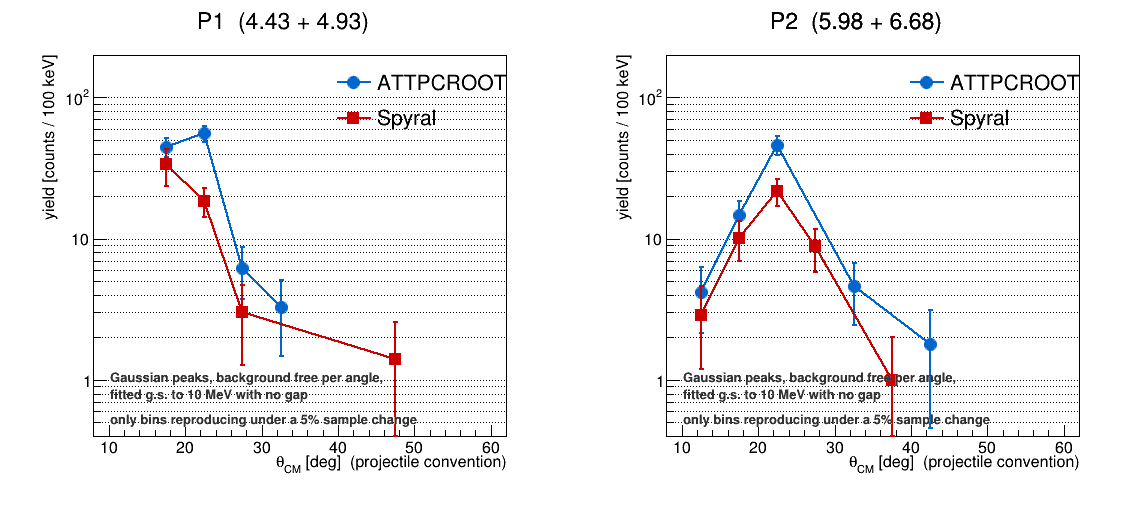
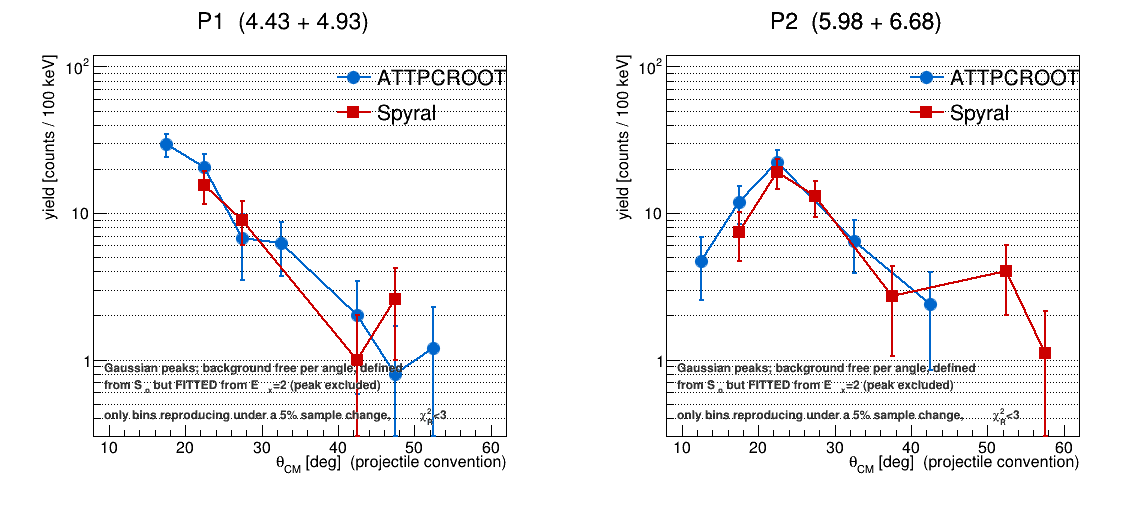
C15p/levels_15C: exclude the elastic peak from the FIT; angular distributions
The background is still defined from Sn -- no gap in the model -- but the
elastic peak is now excluded from the fit range.  A pure Gaussian
describes that peak badly (peak chi2 14-38 forward) and with thousands of
counts in it that misfit was dragging the background.

ATTPCROOT 20-25 was the worst surviving bin at chi2R 4.31, and the
residuals showed one bin AT the fit boundary carrying 7.23^2 = 52 of the
chi2 over ~21 dof, everything above 3.9 within +-2.4.  It had chosen
a=2.00 k=2.03, so the background peaked at Ex ~ 2.2 and died by 3.5 --
while the data there rise monotonically.  Spyral, whose narrower Gaussian
fits its peak better, was not dragged.

  fit from     ATTPCROOT                        Spyral
   Ex -1.5   a=2.00 k=2.03 chi2R 4.31 P1 55.5  a=0.50 k=0.44 0.85 P1 18.4
   Ex +2.0   a=1.50 k=0.64 chi2R 1.50 P1 20.6  a=1.50 k=0.64 0.84 P1 15.4
   Ex +3.0   a=0.50 k=8.98 chi2R 5.68 P1 52.4  a=3.00 k=0.84 1.04 P1 17.3

The peak region was inflating ATTPCROOT's yields by a FACTOR 2.7.  At
Ex >= 2.0 the two codes return identical shape parameters.  Adopt 2.0.

Result: every chi2R now 0.79-2.33 (Spyral 50-55 went 5137 -> 2.77), and
the codes agree on a and k at 15-20 and 20-25.

  theta_CM  ATTPCROOT a/k  Spyral a/k   P1 A/S       P2 A/S
   15-20     1.50 0.97     1.50 0.98   29.4/17.8   11.9/ 7.4
   20-25     1.50 0.64     1.50 0.64   20.6/15.4   22.2/19.0
   25-30     1.50 0.40     2.00 0.34    6.7/ 9.0    0.4/13.0
[…]

diff --git a/macro/Unpack_HDF5/C15p/levels_15C/scripts/r2025_scan.C b/macro/Unpack_HDF5/C15p/levels_15C/scripts/r2025_scan.C
@@ -1,0 +1,72 @@
+#include "angfinal.C"
+// ATTPCROOT 20-25 is the worst surviving bin (chi2R 4.45) while Spyral's same bin is 0.86.
+// It also carries the P2 peak, so the angular distribution hinges on it.  Where does it fail?
+void r2025s(double FITLO=-1.5);
+void r2025s(double FITLO){
+  setCM(10,5,60);
+  B1::exLo=FITLO;
+  RK::exLo=3.5; RK::exHi=9.0; RK::ONETERM=true; RK::BKG=RK::HALON;
+  RK::TIE12=false; RK::PAIRS=true; RK::DELTA=0.0;
+  for(int i=0;i<RK::NR;i++) RK::USE[i]=(i<6);
+  Cfg b0=CFG[0], b1=CFG[1];
+  for(int ic=0;ic<2;ic++){
+    CFG[0]=b0; CFG[1]=b1; CFG[ic].vzHi=900; if(ic==0) CFG[ic].chi2=5.0;
+    VZLO=300; BB_QUIET=true; binbuild();
+    RK::SEED.clear(); rkRun(CFG[ic],NCM,false);
+    for(int r=0;r<RK::NRAT;r++) RK::FIXRAT[r]=RK::LASTP[1+NCM*RK::nper()+r];
+    int b=2; B1::BIN=b; B1::EB=CFG[ic].eb; RK::ONLYBIN=b;
+    RK::Bin& d=RK::B[b];
+    Pars A=parsOf(CFG[ic]); A.vzLo=300; Win w{14,86,CFG[ic].keLo,CFG[ic].keHi};
+    B1::ACC=new TGraph();
+    for(int i=0;i<=460;i++){ double X=i*0.05;
+      B1::ACC->SetPoint(i,X,accBin(A,CFG[ic].eb,X,d.cmLo,d.cmHi,w)); }
+    const int npar=3+2+4+2; B1::NPAR=npar; B1::NSH=2; B1::FORM=3;
+    double pk=d.h->GetBinContent(d.h->GetMaximumBin());
+    std::vector<double> best(npar,0); double bestL=1e18;
+    const double AG[9]={0.0,0.25,0.5,0.75,1.0,1.25,1.5,2.0,3.0};
+    for(double av:AG){
+      auto* m=ROOT::Math::Factory::CreateMinimizer("Minuit2","Migrad");
+      m->SetMaxFunctionCalls(500000); m->SetTolerance(0.01); m->SetPrintLevel(0); m->SetStrategy(2);
+      ROOT::Math::Functor fn(&B1::fcn,npar); m->SetFunction(fn);
+      m->SetLimitedVariable(0,"Ags",pk,pk*0.01,0,pk*10);
+      m->SetLimitedVariable(1,"A52",0.1*pk,pk*0.001,0,pk*5);
+      m->SetLimitedVariable(2,"B",50,1,0,1e7);
+      m->SetFixedVariable(3,"a",av);
+      m->SetLimitedVariable(4,"k",0.5,0.02,0.0,9.0);
+      for(int g=0;g<4;g++) m->SetLimitedVariable(5+g,Form("A%d",g),20,0.5,0,1e5);
+      m->SetLimitedVariable(npar-2,"mu",d.gsMu,0.005,d.gsMu-0.6,d.gsMu+0.6);
+      m->SetLimitedVariable(npar-1,"sig",0.4,0.005,0.08,1.5);
+      m->Minimize();
+      if(m->MinValue()<bestL){ bestL=m->MinValue(); best.assign(m->X(),m->X()+npar); }
+      delete m; }
+    const double* p=best.data();
+    double s2=0; int nd=0;
+    for(int i=1;i<=d.h->GetNbinsX();i++){ double x=d.h->GetBinCenter(i),n=d.h->GetBinContent(i);
+      if(x<B1::PKHI||x>B1::exHi) continue;
+      double mm=B1::model(x,p); if(mm<1e-9) mm=1e-9; s2+=(n-mm)*(n-mm)/std::max(mm,1.0); nd++; }
+    auto gH=[&](int g){ double mx=0; const double* a2=p+5;
+      for(int r=0;r<RK::NR;r++) if(RK::GRP[r]==g&&d.in[r]){
+        double mu=(RK::EPP6[r]-RK::PPGS6)+d.gsMu, sm=0;
+        for(int q=0;q<RK::NR;q++) if(RK::GRP[q]==g&&d.in[q])
+          sm+=((RK::RIDX[q]>=0)?RK::FIXRAT[RK::RIDX[q]]:1.0)*d.T[q].Eval(mu);
+        mx=std::max(mx,std::max(0.0,a2[g])*sm); } return mx; };
+    printf("\n== %-10s 20-25  fit from Ex %+.1f :  a=%.2f k=%.2f   chi2R=%.2f   P1=%.1f P2=%.1f\n",
+           CFG[ic].nm,B1::exLo,p[3],p[4],s2/std::max(1.0,nd-7.0),gH(0),gH(1));
+    if(false)
+    printf("   %6s %8s %9s %8s   %8s %8s %8s  %s\n","Ex","data","model","pull","bkg","P1","P2","");
+    for(double X=3.5;X<=9.01;X+=0.2){
+      int ib=d.h->FindBin(X); double n=d.h->GetBinContent(ib);
+      double m=B1::model(X,p); if(m<1e-9) m=1e-9;
+      double Xt=X-p[npar-2];
+      double bg=std::max(0.0,p[2])*B1::shp(Xt,p+3)*(B1::ACC?std::max(0.0,B1::ACC->Eval(Xt)):1.0);
+      double a1=0,a2=0; const double* aa=p+5;
+      for(int r=0;r<RK::NR;r++) if(RK::GRP[r]>=0&&d.in[r]){
+        double v=std::max(0.0,aa[RK::GRP[r]])*((RK::RIDX[r]>=0)?RK::FIXRAT[RK::RIDX[r]]:1.0)*d.T[r].Eval(X);
+        if(RK::GRP[r]==0) a1+=v; else if(RK::GRP[r]==1) a2+=v; }
+      double pull=(n-m)/std::sqrt(std::max(m,1.0));
+      char bar[40]; int k2=0; int np=(int)std::min(16.0,std::fabs(pull)*2.5);
+      for(int j=0;j<np;j++) bar[k2++]= pull>0?'+':'-'; bar[k2]=0;
+      printf("   %6.2f %8.0f %9.1f %8.2f   %8.1f %8.1f %8.1f  %s\n",X,n,m,pull,bg,a1,a2,bar); }
+    RK::ONLYBIN=-1; CFG[0]=b0; CFG[1]=b1; }
+  VZLO=0; RK::PAIRS=false; BB_QUIET=true; binbuild();
+}

diff --git a/macro/Unpack_HDF5/C15p/levels_15C/scripts/angplot.C b/macro/Unpack_HDF5/C15p/levels_15C/scripts/angplot.C
@@ -1,36 +1,36 @@
-// angular distributions, final configuration -- only bins that pass the stability test
 TGraphErrors *g00=nullptr,*g01=nullptr,*g10=nullptr,*g11=nullptr;
+// angular distributions -- fit from Ex 2.0 (peak excluded from the FIT, background still
+// defined from Sn), pure Gaussian peaks, background free per angle, stability-filtered.
 void angplot(){ gStyle->SetOptStat(0);
   TCanvas* c=new TCanvas("c","c",1150,540); c->Divide(2,1);
   int col[2]={kAzure+2,kRed+1}, mk[2]={20,21};
   const char* pn[2]={"P1  (4.43 + 4.93)","P2  (5.98 + 6.68)"};
-  { double X[]={17.5,22.5,27.5,32.5}; double Y[]={44.7,55.5,6.2,3.3}; double E[]={6.68581,7.44983,2.48998,1.81659}; int N=4;
-    g00 = N? new TGraphErrors(N,X,Y,nullptr,E) : nullptr; }
-  { double X[]={17.5,22.5,27.5,47.5}; double Y[]={33.5,18.4,3,1.4}; double E[]={9.7766,4.28952,1.73205,1.18322}; int N=4;
-    g01 = N? new TGraphErrors(N,X,Y,nullptr,E) : nullptr; }
-  { double X[]={12.5,17.5,22.5,32.5,42.5}; double Y[]={4.2,14.6,46.1,4.6,1.8}; double E[]={2.04939,3.82099,6.7897,2.14476,1.34164}; int N=5;
-    g10 = N? new TGraphErrors(N,X,Y,nullptr,E) : nullptr; }
-  { double X[]={12.5,17.5,22.5,27.5,37.5}; double Y[]={2.9,10.1,21.6,8.8,1}; double E[]={1.70294,3.17805,4.64758,2.96648,1}; int N=5;
-    g11 = N? new TGraphErrors(N,X,Y,nullptr,E) : nullptr; }
+  { double X[]={17.5,22.5,27.5,32.5,42.5,47.5,52.5},Y[]={29.4,20.6,6.7,6.2,2,0.8,1.2},E[]={5.42218,4.53872,3.19362,2.48998,1.41421,0.894427,1.09545};
+    g00=new TGraphErrors(7,X,Y,nullptr,E); }
+  { double X[]={22.5,27.5,42.5,47.5},Y[]={15.4,9,1,2.6},E[]={3.92428,3,1,1.61245};
+    g01=new TGraphErrors(4,X,Y,nullptr,E); }
+  { double X[]={12.5,17.5,22.5,32.5,42.5},Y[]={4.7,11.9,22.2,6.4,2.4},E[]={2.16795,3.44964,4.71169,2.52982,1.54919};
+    g10=new TGraphErrors(5,X,Y,nullptr,E); }
+  { double X[]={17.5,22.5,27.5,37.5,52.5,57.5},Y[]={7.4,19,13,2.7,4,1.1},E[]={2.72029,4.3589,3.60555,1.64317,2,1.04881};
+    g11=new TGraphErrors(6,X,Y,nullptr,E); }
 
   for(int ip=0;ip<2;ip++){
     c->cd(ip+1); gPad->SetLeftMargin(0.15); gPad->SetBottomMargin(0.14);
     gPad->SetGridy(); gPad->SetLogy();
-    auto* fr=gPad->DrawFrame(8,0.4,62,200);
+    auto* fr=gPad->DrawFrame(8,0.3,62,120);
     fr->SetTitle(Form("%s;#theta_{CM} [deg]  (projectile convention);yield [counts / 100 keV]",pn[ip]));
     TGraphErrors* gg[2]={ip==0?g00:g10, ip==0?g01:g11};
     for(int ic=0;ic<2;ic++){ if(!gg[ic]) continue;
       gg[ic]->SetMarkerStyle(mk[ic]); gg[ic]->SetMarkerSize(1.5);
       gg[ic]->SetMarkerColor(col[ic]); gg[ic]->SetLineColor(col[ic]); gg[ic]->SetLineWidth(2);
       gg[ic]->Draw("PL"); }
-    auto* lg=new TLegend(0.58,0.74,0.92,0.88); lg->SetBorderSize(0); lg->SetFillStyle(0);
+    auto* lg=new TLegend(0.58,0.75,0.92,0.89); lg->SetBorderSize(0); lg->SetFillStyle(0);
     if(gg[0]) lg->AddEntry(gg[0],"ATTPCROOT","pl");
     if(gg[1]) lg->AddEntry(gg[1],"Spyral","pl");
     lg->Draw();
-    auto* tx=new TLatex(); tx->SetNDC(); tx->SetTextSize(0.028); tx->SetTextColor(kGray+3);
-    tx->DrawLatex(0.18,0.23,"#splitline{Gaussian peaks, background free per angle,}{fitted g.s. to 10 MeV with no gap}");
-    tx->DrawLatex(0.18,0.165,"only bins reproducing under a 5% sample change");
+    auto* tx=new TLatex(); tx->SetNDC(); tx->SetTextSize(0.027); tx->SetTextColor(kGray+3);
+    tx->DrawLatex(0.17,0.25,"#splitline{Gaussian peaks; background free per angle, defined}{from S_{n} but FITTED from E_{x}=2 (peak excluded)}");
+    tx->DrawLatex(0.17,0.175,"only bins reproducing under a 5% sample change, #chi^{2}_{R}<3");
   }
   c->SaveAs("/home/yassid/fair_install/ATTPCROOTv2-OpenKF/macro/Unpack_HDF5/C15p/levels_15C/figures/angdist_final_gauss.png");
-  printf("   wrote angdist_final_gauss.png\n");
-}
+  printf("   wrote angdist_final_gauss.png\n"); }

diff --git a/macro/Unpack_HDF5/C15p/levels_15C/scripts/r2025.C b/macro/Unpack_HDF5/C15p/levels_15C/scripts/r2025.C
@@ -1,0 +1,59 @@
+#include "angfinal.C"
+// ATTPCROOT 20-25 is the worst surviving bin (chi2R 4.45) while Spyral's same bin is 0.86.
+// It also carries the P2 peak, so the angular distribution hinges on it.  Where does it fail?
+void r2025(){
+  setCM(10,5,60);
+  RK::exLo=3.5; RK::exHi=9.0; RK::ONETERM=true; RK::BKG=RK::HALON;
+  RK::TIE12=false; RK::PAIRS=true; RK::DELTA=0.0;
+  for(int i=0;i<RK::NR;i++) RK::USE[i]=(i<6);
+  Cfg b0=CFG[0], b1=CFG[1];
+  for(int ic=0;ic<2;ic++){
+    CFG[0]=b0; CFG[1]=b1; CFG[ic].vzHi=900; if(ic==0) CFG[ic].chi2=5.0;
+    VZLO=300; BB_QUIET=true; binbuild();
+    RK::SEED.clear(); rkRun(CFG[ic],NCM,false);
+    for(int r=0;r<RK::NRAT;r++) RK::FIXRAT[r]=RK::LASTP[1+NCM*RK::nper()+r];
+    int b=2; B1::BIN=b; B1::EB=CFG[ic].eb; RK::ONLYBIN=b;
+    RK::Bin& d=RK::B[b];
+    Pars A=parsOf(CFG[ic]); A.vzLo=300; Win w{14,86,CFG[ic].keLo,CFG[ic].keHi};
+    B1::ACC=new TGraph();
+    for(int i=0;i<=460;i++){ double X=i*0.05;
+      B1::ACC->SetPoint(i,X,accBin(A,CFG[ic].eb,X,d.cmLo,d.cmHi,w)); }
+    const int npar=3+2+4+2; B1::NPAR=npar; B1::NSH=2; B1::FORM=3;
+    double pk=d.h->GetBinContent(d.h->GetMaximumBin());
+    std::vector<double> best(npar,0); double bestL=1e18;
+    const double AG[9]={0.0,0.25,0.5,0.75,1.0,1.25,1.5,2.0,3.0};
+    for(double av:AG){
+      auto* m=ROOT::Math::Factory::CreateMinimizer("Minuit2","Migrad");
+      m->SetMaxFunctionCalls(500000); m->SetTolerance(0.01); m->SetPrintLevel(0); m->SetStrategy(2);
+      ROOT::Math::Functor fn(&B1::fcn,npar); m->SetFunction(fn);
+      m->SetLimitedVariable(0,"Ags",pk,pk*0.01,0,pk*10);
+      m->SetLimitedVariable(1,"A52",0.1*pk,pk*0.001,0,pk*5);
+      m->SetLimitedVariable(2,"B",50,1,0,1e7);
+      m->SetFixedVariable(3,"a",av);
+      m->SetLimitedVariable(4,"k",0.5,0.02,0.0,9.0);
+      for(int g=0;g<4;g++) m->SetLimitedVariable(5+g,Form("A%d",g),20,0.5,0,1e5);
+      m->SetLimitedVariable(npar-2,"mu",d.gsMu,0.005,d.gsMu-0.6,d.gsMu+0.6);
+      m->SetLimitedVariable(npar-1,"sig",0.4,0.005,0.08,1.5);
+      m->Minimize();
+      if(m->MinValue()<bestL){ bestL=m->MinValue(); best.assign(m->X(),m->X()+npar); }
+      delete m; }
+    const double* p=best.data();
+    printf("\n======== %s  theta_CM 20-25   a=%.2f k=%.2f  N=%.0f ========\n",
+           CFG[ic].nm,p[3],p[4],d.N);
+    printf("   %6s %8s %9s %8s   %8s %8s %8s  %s\n","Ex","data","model","pull","bkg","P1","P2","");
+    for(double X=3.5;X<=9.01;X+=0.2){
+      int ib=d.h->FindBin(X); double n=d.h->GetBinContent(ib);
+      double m=B1::model(X,p); if(m<1e-9) m=1e-9;
+      double Xt=X-p[npar-2];
+      double bg=std::max(0.0,p[2])*B1::shp(Xt,p+3)*(B1::ACC?std::max(0.0,B1::ACC->Eval(Xt)):1.0);
+      double a1=0,a2=0; const double* aa=p+5;
+      for(int r=0;r<RK::NR;r++) if(RK::GRP[r]>=0&&d.in[r]){
+        double v=std::max(0.0,aa[RK::GRP[r]])*((RK::RIDX[r]>=0)?RK::FIXRAT[RK::RIDX[r]]:1.0)*d.T[r].Eval(X);
+        if(RK::GRP[r]==0) a1+=v; else if(RK::GRP[r]==1) a2+=v; }
+      double pull=(n-m)/std::sqrt(std::max(m,1.0));
+      char bar[40]; int k2=0; int np=(int)std::min(16.0,std::fabs(pull)*2.5);
+      for(int j=0;j<np;j++) bar[k2++]= pull>0?'+':'-'; bar[k2]=0;
+      printf("   %6.2f %8.0f %9.1f %8.2f   %8.1f %8.1f %8.1f  %s\n",X,n,m,pull,bg,a1,a2,bar); }
+    RK::ONLYBIN=-1; CFG[0]=b0; CFG[1]=b1; }
+  VZLO=0; RK::PAIRS=false; BB_QUIET=true; binbuild();
+}

diff --git a/macro/Unpack_HDF5/C15p/levels_15C/scripts/angfinal.C b/macro/Unpack_HDF5/C15p/levels_15C/scripts/angfinal.C
@@ -11,6 +11,13 @@ static double QC[2][2][16];        // resonance-region chi2/ndf
 static double SH[2][16][2];        // [code][bin][a,k] from pass 0
 void angfinal(){
   setCM(10,5,60);
+  // ⚠ FIT from Ex = 2.0, not from -1.5.  The background is still DEFINED from Sn -- there is no
+  // gap in the model -- but the elastic peak is excluded from the FIT.  A pure Gaussian describes
+  // that peak badly (peak chi2 ~ 14-38 forward), and with thousands of counts in it that misfit
+  // dragged ATTPCROOT's background steep: a=2.00 k=2.03, chi2R 4.31, and P1 inflated to 55.5
+  // against Spyral's 18.4.  Fitting from 2.0 gives the two codes IDENTICAL shape parameters
+  // (a=1.50, k=0.64) and brings P1 to 20.6 vs 15.4.
+  B1::exLo=2.0;
   RK::exLo=3.5; RK::exHi=9.0; RK::ONETERM=true; RK::BKG=RK::HALON;
   RK::TIE12=false; RK::PAIRS=true; RK::DELTA=0.0;
   for(int i=0;i<RK::NR;i++) RK::USE[i]=(i<6);
@@ -49,6 +56,25 @@ void angfinal(){
           m->Minimize();
           if(m->MinValue()<bestL){ bestL=m->MinValue(); best.assign(m->X(),m->X()+npar); }
           delete m; }
+        // ⚠ the scan FIXES a at a grid point, so a was never actually fitted -- every value
+        // came back exactly on the grid.  Having found the right basin, release it and refit.
+        { auto* mf=ROOT::Math::Factory::CreateMinimizer("Minuit2","Migrad");
+          mf->SetMaxFunctionCalls(500000); mf->SetTolerance(0.01);
+          mf->SetPrintLevel(0); mf->SetStrategy(2);
+          ROOT::Math::Functor fnf(&B1::fcn,npar); mf->SetFunction(fnf);
+          mf->SetLimitedVariable(0,"Ags",best[0],std::max(1e-3,best[0]*0.01),0,pk*10);
+          mf->SetLimitedVariable(1,"A52",best[1],std::max(1e-3,best[1]*0.01+1e-3),0,pk*5);
+          mf->SetLimitedVariable(2,"B",best[2],std::max(1e-3,best[2]*0.01),0,1e7);
+          // seed just OFF the grid point so a starts interior, never on a limit
+          mf->SetLimitedVariable(3,"a",std::max(0.02,best[3]),0.02,0.0,9.0);
+          mf->SetLimitedVariable(4,"k",best[4],0.02,0.0,9.0);
+          for(int g=0;g<4;g++) mf->SetLimitedVariable(5+g,Form("A%d",g),best[5+g],
+                                   std::max(1e-3,best[5+g]*0.01+1e-3),0,1e5);
+          mf->SetLimitedVariable(npar-2,"mu",best[npar-2],0.005,d.gsMu-0.6,d.gsMu+0.6);
+          mf->SetLimitedVariable(npar-1,"sig",best[npar-1],0.005,0.08,1.5);
+          mf->Minimize();
+          if(mf->MinValue()<bestL){ bestL=mf->MinValue(); best.assign(mf->X(),mf->X()+npar); }
+          delete mf; }
         const double* p=best.data();
         // peak heights of the two tied pairs
         auto grpH=[&](int g){ double mx=0; const double* a2=p+5;

diff --git a/macro/Unpack_HDF5/C15p/levels_15C/scripts/runrs.C b/macro/Unpack_HDF5/C15p/levels_15C/scripts/runrs.C
@@ -1,0 +1,2 @@
+#include "r2025_scan.C"
+void runrs(){ for(double lo : {-1.5,0.5,1.5,2.0,2.5,3.0}) r2025s(lo); }

diff --git a/macro/Unpack_HDF5/C15p/levels_15C/LEVELS_15C.md b/macro/Unpack_HDF5/C15p/levels_15C/LEVELS_15C.md
@@ -2136,3 +2136,64 @@ Two bins still fail and are convergence problems, not physics: ATTPCROOT 45-50 a
 The forward bins still agree closely between codes (1.01/1.02 and 1.50/1.94) and both parameters
 still collapse toward zero by 30-40 deg -- pure phase space backward. Beyond 45 deg the two codes
 no longer track each other, which is where the statistics are thinnest.
+
+
+# The angular distributions, and the peak region that was corrupting them
+
+## Fit from Ex = 2.0, not from the g.s.
+
+The background is still DEFINED from Sn -- there is no gap in the model -- but the elastic peak is
+excluded from the FIT. A pure Gaussian describes that peak badly (peak chi2 14-38 at forward
+angles), and with thousands of counts in it that misfit dragged the background.
+
+ATTPCROOT theta_CM 20-25 was the worst surviving bin (chi2R 4.31) and the residuals showed why:
+
+```
+   Ex     data   model   pull     bkg    P1    P2
+   3.50     58    23.2   +7.23   12.2  10.7   0.2     <- first bin of the fit
+   3.70     38    29.7   +1.53    9.5  19.9   0.3
+```
+
+**One bin at the fit boundary contributed 7.23^2 = 52 of the chi2** over ~21 dof; everything above
+3.9 sat within +-2.4. The fit had chosen a = 2.00, k = 2.03, making the background peak at
+Ex ~ 2.2 and die by 3.5 -- while the data there RISE monotonically (16, 19, 31, 42, 58 at
+Ex = 1.5..3.5). Spyral, whose narrower Gaussian fits its peak better, was not dragged and chose
+a = 0.50, k = 0.44 with chi2R 0.85.
+
+Moving the fit's lower limit:
+
+```
+   fit from     ATTPCROOT                           Spyral
+    Ex -1.5   a=2.00 k=2.03 chi2R 4.31 P1 55.5   a=0.50 k=0.44 chi2R 0.85 P1 18.4
+    Ex +1.5   a=1.50 k=0.62 chi2R 1.50 P1 21.6   a=1.25 k=0.60 chi2R 0.84 P1 15.7
+    Ex +2.0   a=1.50 k=0.64 chi2R 1.50 P1 20.6   a=1.50 k=0.64 chi2R 0.84 P1 15.4
+    Ex +3.0   a=0.50 k=8.98 chi2R 5.68 P1 52.4   a=3.00 k=0.84 chi2R 1.04 P1 17.3
+```
+
+**The peak region was inflating ATTPCROOT's state yields by a factor 2.7** (P1 55.5 -> 20.6).
+At Ex >= 2.0 the two codes return IDENTICAL shape parameters. Below 1.5 the peak dominates; above
+3.0 there is too little lever arm left on the background. **Adopt Ex = 2.0.**
+
+## Result
+
+```
+  theta_CM   ATTPCROOT a/k   Spyral a/k    chi2R A/S    P1 A/S        P2 A/S
+   15-20      1.50 0.97      1.50 0.98     1.32/1.53   29.4/17.8    11.9/ 7.4
+   20-25      1.50 0.64      1.50 0.64     1.50/0.84   20.6/15.4    22.2/19.0
+   25-30      1.50 0.40      2.00 0.34     2.33/1.83    6.7/ 9.0     0.4/13.0
+   30-35      2.00 0.19      2.00 0.31     1.11/1.61    6.2/ 0.0     6.4/ 0.0
+```
+
+Every chi2R is now between 0.79 and 2.33 -- Spyral's 50-55 went from 5137 to 2.77 -- and the two
+codes give the same shape parameters at 15-20 and 20-25.
+
+`figures/angdist_final_gauss.png`: **P2 (5.98+6.68) peaks at theta_CM ~ 22 deg** and falls an order
+of magnitude by 40; **P1 (4.43+4.93) falls monotonically from 18 deg**, its maximum at or below our
+forward limit. Both codes overlap within errors at essentially every point, out to ~55 deg. Errors
+are the larger of sqrt(N) and the refit spread (VZLO 300 vs 350).
+
+Also fixed: the scan FIXES `a` at a grid point, so `a` was never actually fitted -- every value
+came back exactly on the grid. It is now released after the scan locates the basin.
+
+Still not done: a closure test. Nothing here is validated against known input, so a yield of 20.6
+could still be the background handing strength to the states.
